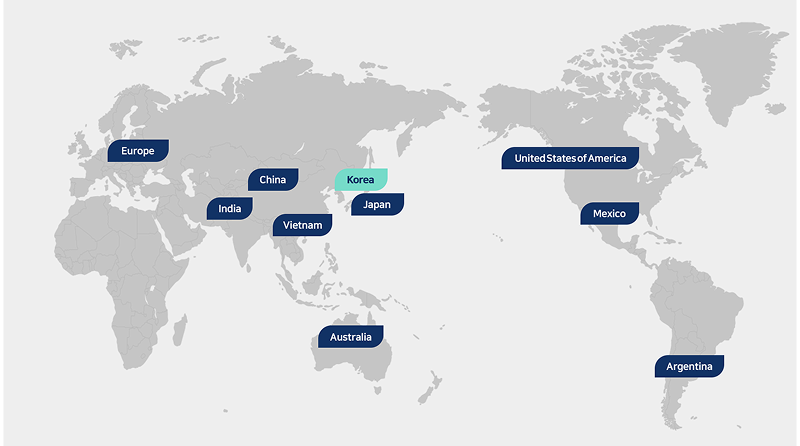
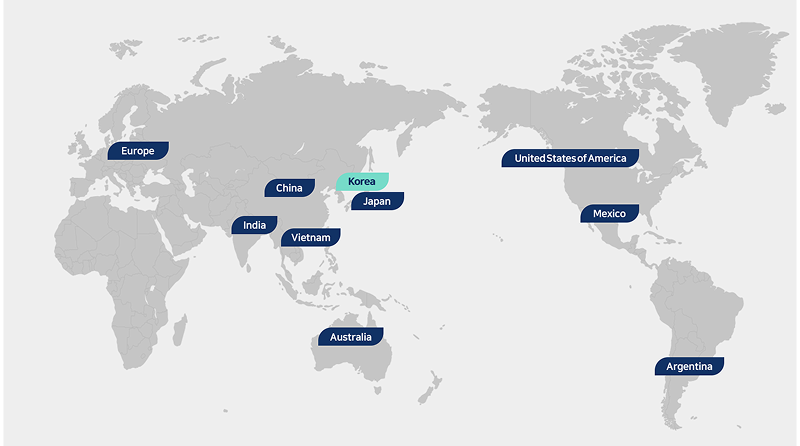
[CNX] global dotcom and e-commerce 지도 수정 및 컨텐츠 삭제

diff --git a/admin-panel/pages/cnx/what-we-do/digital-operations/global-dotcom-and-e-commerce.vue b/admin-panel/pages/cnx/what-we-do/digital-operations/global-dotcom-and-e-commerce.vue
@@ -95,7 +95,7 @@
         <div class="inner">
           <AppCardList 
             :items="cardListItems"
-            :tablet-items-per-row="4"
+            :tablet-items-per-row="2"
             :no-margin-bottom="true"
           />
         </div>
@@ -169,33 +169,33 @@ const cardListItems = ref([
       '영어, 중국어, 한국어 지원'
     ]
   },
+  // {
+  //   id: 2,
+  //   title: 'Dalian Center',
+  //   borderColor: '#003d5b',
+  //   list: [
+  //     '브랜드 웹 통합 운영',
+  //     '개발 업무 지원',
+  //     '중국어, 광동어, 대만어 번역 지원',
+  //     '200 Web Experts',
+  //     '(아모레퍼시픽 전담 인력 5명)',
+  //     'GMT +8:00 (09:00~22:00)'
+  //   ]
+  // },
+  // {
+  //   id: 3,
+  //   title: 'Vietnam Center',
+  //   borderColor: '#003d5b',
+  //   list: [
+  //     '개발 업무 지원 (마젠토 지원 가능)',
+  //     '영어, 베트남어, 아랍어 번역 지원',
+  //     '150 Web Experts',
+  //     '호치민 50, 하노이 100',
+  //     'GMT +7:00 (09:00~22:00)'
+  //   ]
+  // },
   {
     id: 2,
-    title: 'Dalian Center',
-    borderColor: '#003d5b',
-    list: [
-      '브랜드 웹 통합 운영',
-      '개발 업무 지원',
-      '중국어, 광동어, 대만어 번역 지원',
-      '200 Web Experts',
-      '(아모레퍼시픽 전담 인력 5명)',
-      'GMT +8:00 (09:00~22:00)'
-    ]
-  },
-  {
-    id: 3,
-    title: 'Vietnam Center',
-    borderColor: '#003d5b',
-    list: [
-      '개발 업무 지원 (마젠토 지원 가능)',
-      '영어, 베트남어, 아랍어 번역 지원',
-      '150 Web Experts',
-      '호치민 50, 하노이 100',
-      'GMT +7:00 (09:00~22:00)'
-    ]
-  },
-  {
-    id: 4,
     title: 'Bratislava Center',
     borderColor: '#003d5b',
     list: [
